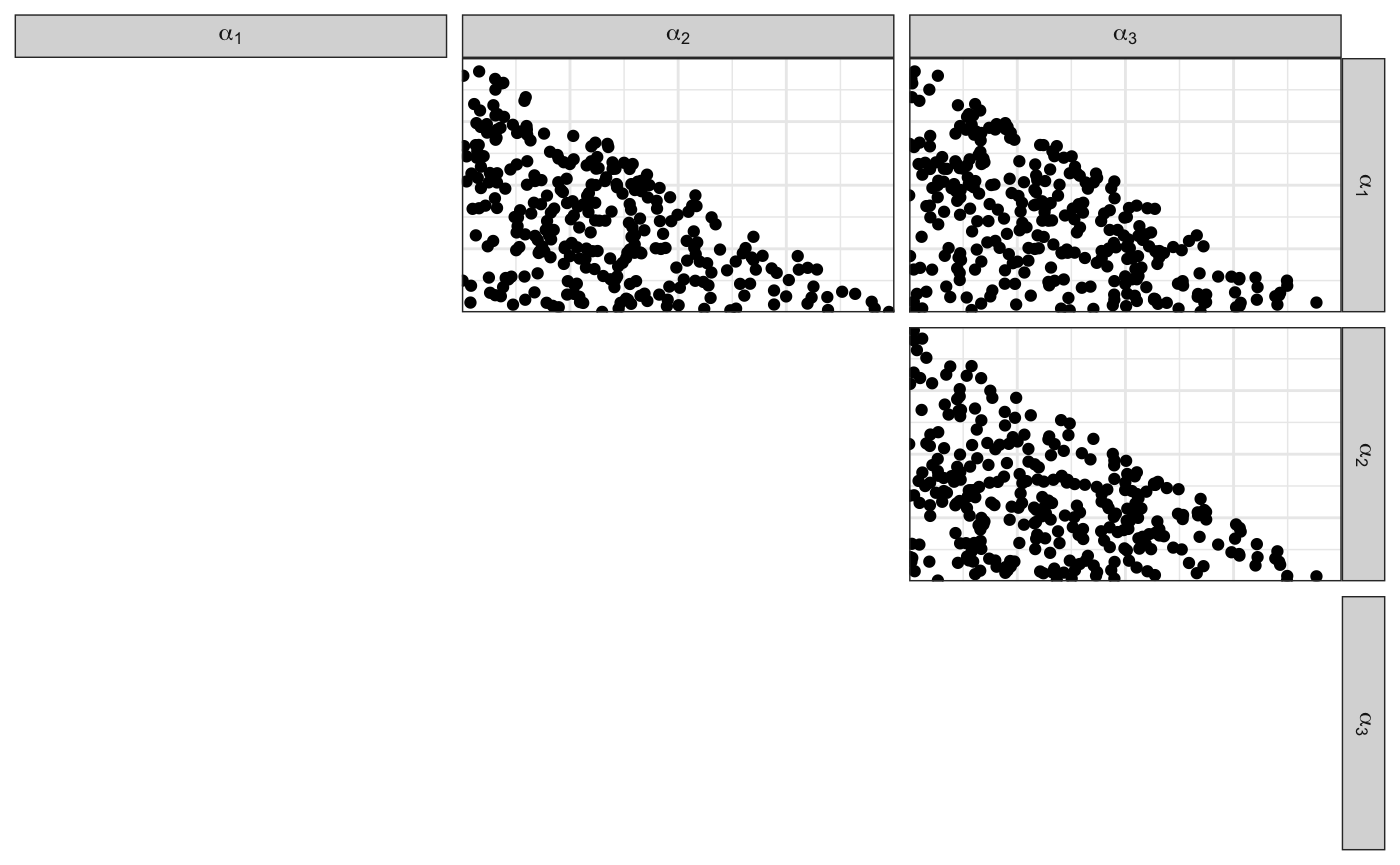
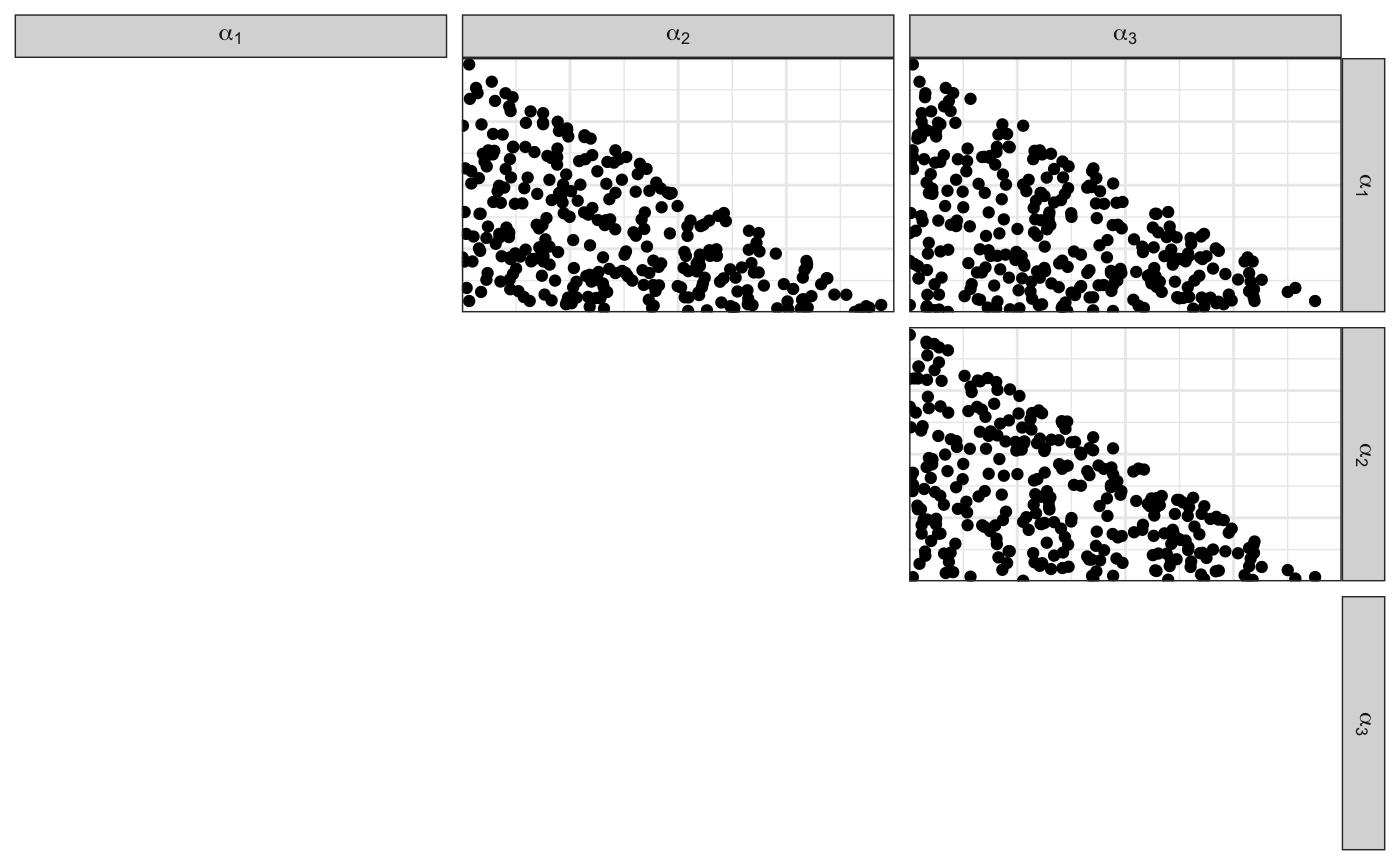
Built site for rsamplestudy: 0.3.2@eef4b8c

Changed region(s): [[0.3071, 0.0624, 0.9521, 0.6867]]

diff --git a/articles/dirichletdirichlet-study.html b/articles/dirichletdirichlet-study.html
@@ -145,24 +145,24 @@ This vignette describes the Dirichlet-Dirichlet model.</p>
 <p>Notice that the hyperparameter is sampled, too (but it can be fixed).</p>
 <div class="sourceCode" id="cb2"><html><body><pre class="r"><span class="fu"><a href="https://rdrr.io/r/utils/head.html">head</a></span>(<span class="no">list_pop</span>$<span class="no">df_pop</span>)
 <span class="co">#&gt; # A tibble: 6 x 5</span>
-<span class="co">#&gt;   source   `x[1]`    `x[2]` `x[3]`   `x[4]`</span>
-<span class="co">#&gt;    &lt;int&gt;    &lt;dbl&gt;     &lt;dbl&gt;  &lt;dbl&gt;    &lt;dbl&gt;</span>
-<span class="co">#&gt; 1      1 2.05e-10 1.03e- 97  1.00  1.60e- 5</span>
-<span class="co">#&gt; 2      1 3.78e- 3 0.         0.996 1.29e-15</span>
-<span class="co">#&gt; 3      1 9.10e- 2 0.         0.904 5.06e- 3</span>
-<span class="co">#&gt; 4      1 4.87e- 1 1.46e-124  0.508 4.09e- 3</span>
-<span class="co">#&gt; 5      1 9.90e- 2 7.83e- 22  0.901 1.39e-13</span>
-<span class="co">#&gt; 6      1 4.51e- 4 8.92e-126  1.00  2.79e-11</span>
+<span class="co">#&gt;   source `x[1]` `x[2]` `x[3]`   `x[4]`</span>
+<span class="co">#&gt;    &lt;int&gt;  &lt;dbl&gt;  &lt;dbl&gt;  &lt;dbl&gt;    &lt;dbl&gt;</span>
+<span class="co">#&gt; 1      1      0      0 0.997  0.00343 </span>
+<span class="co">#&gt; 2      1      0      0 0.999  0.000762</span>
+<span class="co">#&gt; 3      1      0      0 0.648  0.352   </span>
+<span class="co">#&gt; 4      1      0      0 0.0148 0.985   </span>
+<span class="co">#&gt; 5      1      0      0 0.958  0.0418  </span>
+<span class="co">#&gt; 6      1      0      0 0.871  0.129</span>
 <span class="fu"><a href="https://rdrr.io/r/utils/head.html">head</a></span>(<span class="no">list_pop</span>$<span class="no">df_sources</span>)
 <span class="co">#&gt; # A tibble: 6 x 5</span>
-<span class="co">#&gt;   source `theta[1]` `theta[2]` `theta[3]` `theta[4]`</span>
-<span class="co">#&gt;    &lt;int&gt;      &lt;dbl&gt;      &lt;dbl&gt;      &lt;dbl&gt;      &lt;dbl&gt;</span>
-<span class="co">#&gt; 1      1      0.135  0.000272    0.817     0.0484   </span>
-<span class="co">#&gt; 2      2      0.477  0.0000483   0.523     0.0000128</span>
-<span class="co">#&gt; 3      3      0.999  0.000318    0.000878  0.0000128</span>
-<span class="co">#&gt; 4      4      0.866  0.00490     0.122     0.00734  </span>
-<span class="co">#&gt; 5      5      0.172  0.0368      0.775     0.0160   </span>
-<span class="co">#&gt; 6      6      0.835  0.0694      0.0287    0.0669</span></pre></body></html></div>
+<span class="co">#&gt;   source `theta[1]` `theta[2]`   `theta[3]` `theta[4]`</span>
+<span class="co">#&gt;    &lt;int&gt;      &lt;dbl&gt;      &lt;dbl&gt;        &lt;dbl&gt;      &lt;dbl&gt;</span>
+<span class="co">#&gt; 1      1   3.20e-20   5.86e-10 0.801             0.199</span>
+<span class="co">#&gt; 2      2   5.52e- 4   7.58e-38 0.0000000112      0.999</span>
+<span class="co">#&gt; 3      3   6.42e-36   1.61e-19 0.107             0.893</span>
+<span class="co">#&gt; 4      4   4.18e- 1   6.28e-20 0.369             0.213</span>
+<span class="co">#&gt; 5      5   4.48e-48   2.09e-11 0.636             0.364</span>
+<span class="co">#&gt; 6      6   7.36e-32   6.54e- 7 0.789             0.211</span></pre></body></html></div>
 </div>
 <div id="hyperparameters" class="section level2">
 <h2 class="hasAnchor">
@@ -189,33 +189,33 @@ This is generically done using <code>make_dataset_splits</code>:</p>
 <span class="co">#&gt; [5] "df_questioned"  "df_background"</span></pre></body></html></div>
 <div class="sourceCode" id="cb5"><html><body><pre class="r"><span class="fu"><a href="https://rdrr.io/r/utils/head.html">head</a></span>(<span class="no">list_samples</span>$<span class="no">df_reference</span>)
 <span class="co">#&gt; # A tibble: 6 x 5</span>
-<span class="co">#&gt;   source  `x[1]` `x[2]` `x[3]` `x[4]`</span>
-<span class="co">#&gt;    &lt;int&gt;   &lt;dbl&gt;  &lt;dbl&gt;  &lt;dbl&gt;  &lt;dbl&gt;</span>
-<span class="co">#&gt; 1      2 0.278        0 0.722       0</span>
-<span class="co">#&gt; 2      2 0.00330      0 0.997       0</span>
-<span class="co">#&gt; 3      2 0.983        0 0.0170      0</span>
-<span class="co">#&gt; 4      2 0.00378      0 0.996       0</span>
-<span class="co">#&gt; 5      2 0.349        0 0.651       0</span>
-<span class="co">#&gt; 6      2 0.988        0 0.0118      0</span>
+<span class="co">#&gt;   source `x[1]` `x[2]` `x[3]`  `x[4]`</span>
+<span class="co">#&gt;    &lt;int&gt;  &lt;dbl&gt;  &lt;dbl&gt;  &lt;dbl&gt;   &lt;dbl&gt;</span>
+<span class="co">#&gt; 1      6      0      0 0.107  0.893  </span>
+<span class="co">#&gt; 2      6      0      0 0.946  0.0543 </span>
+<span class="co">#&gt; 3      6      0      0 0.462  0.538  </span>
+<span class="co">#&gt; 4      6      0      0 0.0735 0.926  </span>
+<span class="co">#&gt; 5      6      0      0 0.999  0.00119</span>
+<span class="co">#&gt; 6      6      0      0 0.407  0.593</span>
 <span class="fu"><a href="https://rdrr.io/r/utils/head.html">head</a></span>(<span class="no">list_samples</span>$<span class="no">df_questioned</span>)
 <span class="co">#&gt; # A tibble: 5 x 5</span>
-<span class="co">#&gt;   source    `x[1]` `x[2]`    `x[3]`    `x[4]`</span>
-<span class="co">#&gt;    &lt;int&gt;     &lt;dbl&gt;  &lt;dbl&gt;     &lt;dbl&gt;     &lt;dbl&gt;</span>
-<span class="co">#&gt; 1     10 1.00e+  0 0      0         1.54e-132</span>
-<span class="co">#&gt; 2     11 9.59e-  1 0.0408 0         0.       </span>
-<span class="co">#&gt; 3     12 5.09e-123 0.0321 0.968     8.05e- 61</span>
-<span class="co">#&gt; 4     12 8.33e- 56 0.833  0.167     8.34e-220</span>
-<span class="co">#&gt; 5     17 9.89e-  1 0.0111 0.0000646 3.31e-259</span>
+<span class="co">#&gt;   source  `x[1]`    `x[2]`    `x[3]` `x[4]`</span>
+<span class="co">#&gt;    &lt;int&gt;   &lt;dbl&gt;     &lt;dbl&gt;     &lt;dbl&gt;  &lt;dbl&gt;</span>
+<span class="co">#&gt; 1      1 0       0.        9.59e-  1 0.0409</span>
+<span class="co">#&gt; 2      3 0       0.        3.06e-  2 0.969 </span>
+<span class="co">#&gt; 3      4 0.00248 0.        8.29e-  1 0.169 </span>
+<span class="co">#&gt; 4     15 0       0.        1.36e-236 1     </span>
+<span class="co">#&gt; 5     17 0       2.39e-126 9.54e-  1 0.0459</span>
 <span class="fu"><a href="https://rdrr.io/r/utils/head.html">head</a></span>(<span class="no">list_samples</span>$<span class="no">df_background</span>)
 <span class="co">#&gt; # A tibble: 6 x 5</span>
-<span class="co">#&gt;   source   `x[1]`    `x[2]` `x[3]`   `x[4]`</span>
-<span class="co">#&gt;    &lt;int&gt;    &lt;dbl&gt;     &lt;dbl&gt;  &lt;dbl&gt;    &lt;dbl&gt;</span>
-<span class="co">#&gt; 1      1 2.05e-10 1.03e- 97  1.00  1.60e- 5</span>
-<span class="co">#&gt; 2      1 3.78e- 3 0.         0.996 1.29e-15</span>
-<span class="co">#&gt; 3      1 9.10e- 2 0.         0.904 5.06e- 3</span>
-<span class="co">#&gt; 4      1 4.87e- 1 1.46e-124  0.508 4.09e- 3</span>
-<span class="co">#&gt; 5      1 9.90e- 2 7.83e- 22  0.901 1.39e-13</span>
-<span class="co">#&gt; 6      1 4.51e- 4 8.92e-126  1.00  2.79e-11</span></pre></body></html></div>
+<span class="co">#&gt;   source `x[1]` `x[2]` `x[3]`   `x[4]`</span>
+<span class="co">#&gt;    &lt;int&gt;  &lt;dbl&gt;  &lt;dbl&gt;  &lt;dbl&gt;    &lt;dbl&gt;</span>
+<span class="co">#&gt; 1      1      0      0 0.997  0.00343 </span>
+<span class="co">#&gt; 2      1      0      0 0.999  0.000762</span>
+<span class="co">#&gt; 3      1      0      0 0.648  0.352   </span>
+<span class="co">#&gt; 4      1      0      0 0.0148 0.985   </span>
+<span class="co">#&gt; 5      1      0      0 0.958  0.0418  </span>
+<span class="co">#&gt; 6      1      0      0 0.871  0.129</span></pre></body></html></div>
 <div id="source-parameters" class="section level3">
 <h3 class="hasAnchor">
 <a href="#source-parameters" class="anchor"></a>Source parameters</h3>

diff --git a/articles/dirichlet-distribution.html b/articles/dirichlet-distribution.html
@@ -153,14 +153,14 @@ In other words, <span class="math inline">\(\boldsymbol{X} \in \text{Simplex}{(p
 <div class="sourceCode" id="cb2"><html><body><pre class="r"><span class="no">df_diri</span> <span class="kw">&lt;-</span> <span class="fu"><a href="../reference/fun_rdirichlet.html">fun_rdirichlet</a></span>(<span class="no">n</span>, <span class="no">alpha</span>)
 <span class="fu"><a href="https://rdrr.io/r/utils/head.html">head</a></span>(<span class="no">df_diri</span>)
 <span class="co">#&gt; # A tibble: 6 x 4</span>
-<span class="co">#&gt;   `x[1]`      `x[2]` `x[3]`   `x[4]`</span>
-<span class="co">#&gt;    &lt;dbl&gt;       &lt;dbl&gt;  &lt;dbl&gt;    &lt;dbl&gt;</span>
-<span class="co">#&gt; 1 0.0727 0.00456      0.923 2.61e- 7</span>
-<span class="co">#&gt; 2 0.0155 0.0547       0.930 1.57e-15</span>
-<span class="co">#&gt; 3 0.0191 0.000159     0.975 5.88e- 3</span>
-<span class="co">#&gt; 4 0.0642 0.0120       0.908 1.55e- 2</span>
-<span class="co">#&gt; 5 0.0630 0.000000188  0.937 5.29e- 8</span>
-<span class="co">#&gt; 6 0.0118 0.00680      0.981 2.96e-11</span></pre></body></html></div>
+<span class="co">#&gt;    `x[1]`   `x[2]` `x[3]`   `x[4]`</span>
+<span class="co">#&gt;     &lt;dbl&gt;    &lt;dbl&gt;  &lt;dbl&gt;    &lt;dbl&gt;</span>
+<span class="co">#&gt; 1 0.00347 8.72e-15  0.997 1.76e-11</span>
+<span class="co">#&gt; 2 0.104   2.83e- 5  0.896 7.12e- 7</span>
+<span class="co">#&gt; 3 0.272   7.46e- 7  0.728 3.20e- 5</span>
+<span class="co">#&gt; 4 0.0220  3.87e- 6  0.978 2.47e- 5</span>
+<span class="co">#&gt; 5 0.185   1.51e- 5  0.815 3.45e- 6</span>
+<span class="co">#&gt; 6 0.0113  3.85e- 3  0.985 4.86e- 5</span></pre></body></html></div>
 <pre><code>#&gt; Loading required namespace: ggplot2
 #&gt; Loading required namespace: GGally
 #&gt; Registered S3 method overwritten by 'GGally':
@@ -178,14 +178,14 @@ In other words, <span class="math inline">\(\boldsymbol{X} \in \text{Simplex}{(p
 <div class="sourceCode" id="cb5"><html><body><pre class="r"><span class="no">df_diri</span> <span class="kw">&lt;-</span> <span class="fu"><a href="../reference/fun_rdirichlet.html">fun_rdirichlet</a></span>(<span class="no">n</span>, <span class="no">alpha</span>)
 <span class="fu"><a href="https://rdrr.io/r/utils/head.html">head</a></span>(<span class="no">df_diri</span>)
 <span class="co">#&gt; # A tibble: 6 x 4</span>
-<span class="co">#&gt;   `x[1]` `x[2]` `x[3]` `x[4]`</span>
-<span class="co">#&gt;    &lt;dbl&gt;  &lt;dbl&gt;  &lt;dbl&gt;  &lt;dbl&gt;</span>
-<span class="co">#&gt; 1 0.396   0.143 0.272  0.189 </span>
-<span class="co">#&gt; 2 0.170   0.445 0.297  0.0872</span>
-<span class="co">#&gt; 3 0.130   0.301 0.251  0.318 </span>
-<span class="co">#&gt; 4 0.0966  0.239 0.0122 0.652 </span>
-<span class="co">#&gt; 5 0.237   0.406 0.317  0.0397</span>
-<span class="co">#&gt; 6 0.141   0.119 0.422  0.317</span></pre></body></html></div>
+<span class="co">#&gt;   `x[1]` `x[2]`  `x[3]` `x[4]`</span>
+<span class="co">#&gt;    &lt;dbl&gt;  &lt;dbl&gt;   &lt;dbl&gt;  &lt;dbl&gt;</span>
+<span class="co">#&gt; 1 0.172  0.0447 0.723   0.0604</span>
+<span class="co">#&gt; 2 0.327  0.304  0.0588  0.310 </span>
+<span class="co">#&gt; 3 0.329  0.147  0.506   0.0170</span>
+<span class="co">#&gt; 4 0.0690 0.674  0.00810 0.249 </span>
+<span class="co">#&gt; 5 0.0565 0.479  0.345   0.119 </span>
+<span class="co">#&gt; 6 0.297  0.439  0.124   0.141</span></pre></body></html></div>
 <div class="sourceCode" id="cb6"><html><body><pre class="r"><span class="fu">scatter_matrix_simplex</span>(<span class="no">df_diri</span>)</pre></body></html></div>
 <p><img src="dirichlet-distribution_files/figure-html/unnamed-chunk-5-1.png" width="700"></p>
 </div>
@@ -202,12 +202,12 @@ In other words, <span class="math inline">\(\boldsymbol{X} \in \text{Simplex}{(p
 <span class="co">#&gt; # A tibble: 6 x 4</span>
 <span class="co">#&gt;   `x[1]` `x[2]` `x[3]` `x[4]`</span>
 <span class="co">#&gt;    &lt;dbl&gt;  &lt;dbl&gt;  &lt;dbl&gt;  &lt;dbl&gt;</span>
-<span class="co">#&gt; 1  0.280  0.214  0.253  0.252</span>
-<span class="co">#&gt; 2  0.210  0.268  0.277  0.244</span>
-<span class="co">#&gt; 3  0.218  0.160  0.318  0.305</span>
-<span class="co">#&gt; 4  0.231  0.235  0.236  0.299</span>
-<span class="co">#&gt; 5  0.216  0.351  0.208  0.225</span>
-<span class="co">#&gt; 6  0.228  0.207  0.278  0.288</span></pre></body></html></div>
+<span class="co">#&gt; 1  0.290  0.176  0.284  0.250</span>
+<span class="co">#&gt; 2  0.280  0.194  0.246  0.280</span>
+<span class="co">#&gt; 3  0.230  0.287  0.288  0.195</span>
+<span class="co">#&gt; 4  0.267  0.187  0.252  0.294</span>
+<span class="co">#&gt; 5  0.245  0.238  0.260  0.257</span>
+<span class="co">#&gt; 6  0.266  0.278  0.219  0.237</span></pre></body></html></div>
 <div class="sourceCode" id="cb9"><html><body><pre class="r"><span class="fu">scatter_matrix_simplex</span>(<span class="no">df_diri</span>)</pre></body></html></div>
 <p><img src="dirichlet-distribution_files/figure-html/unnamed-chunk-8-1.png" width="700"></p>
 </div>
@@ -224,12 +224,12 @@ In other words, <span class="math inline">\(\boldsymbol{X} \in \text{Simplex}{(p
 <span class="co">#&gt; # A tibble: 6 x 4</span>
 <span class="co">#&gt;      `x[1]`    `x[2]`    `x[3]`    `x[4]`</span>
 <span class="co">#&gt;       &lt;dbl&gt;     &lt;dbl&gt;     &lt;dbl&gt;     &lt;dbl&gt;</span>
-<span class="co">#&gt; 1 2.58e- 18 1.01e- 17 1.00e+  0 1.82e-116</span>
-<span class="co">#&gt; 2 1.00e+  0 1.62e- 48 0.        5.18e- 21</span>
-<span class="co">#&gt; 3 3.61e- 32 5.71e-260 1.00e+  0 7.56e- 52</span>
-<span class="co">#&gt; 4 1.41e- 68 1.00e+  0 1.64e-138 4.12e-216</span>
-<span class="co">#&gt; 5 1.04e- 97 2.72e- 60 5.03e-169 1.00e+  0</span>
-<span class="co">#&gt; 6 2.24e-241 1.00e+  0 5.48e-200 5.19e- 97</span></pre></body></html></div>
+<span class="co">#&gt; 1 6.01e-269 0.        1.00e+  0 1.32e- 83</span>
+<span class="co">#&gt; 2 1.11e- 93 3.74e-162 3.94e- 69 1.00e+  0</span>
+<span class="co">#&gt; 3 8.70e- 26 1.09e-177 1.00e+  0 1.06e- 21</span>
+<span class="co">#&gt; 4 2.00e- 11 1.96e-268 2.47e-229 1.00e+  0</span>
+<span class="co">#&gt; 5 0.        5.29e-142 1.00e+  0 4.98e-116</span>
+<span class="co">#&gt; 6 1.00e+  0 1.34e- 91 3.07e- 91 1.37e- 63</span></pre></body></html></div>
 <div class="sourceCode" id="cb12"><html><body><pre class="r"><span class="fu">scatter_matrix_simplex</span>(<span class="no">df_diri</span>)</pre></body></html></div>
 <p><img src="dirichlet-distribution_files/figure-html/unnamed-chunk-11-1.png" width="700"></p>
 </div>

diff --git a/reference/fun_rdirichlet_population.html b/reference/fun_rdirichlet_population.html
@@ -166,8 +166,8 @@ Optionally pass the between-source alpha hyperparameter used to generate the sou
     </tr>
     <tr>
       <th>alpha</th>
-      <td><p>between-source alpha hyperparameter, a numeric vector or 1-row data.frame.
-If <code>NULL</code> (default), it is generated from the Uniform distribution on the (p-1)-simplex (see <code><a href='fun_rdirichlet_hyperparameter.html'>fun_rdirichlet_hyperparameter()</a></code>).</p></td>
+      <td><p>between-source alpha hyperparameter.
+If <code>NULL</code>, it is generated from the Uniform distribution on the (p-1)-simplex (see <code><a href='fun_rdirichlet_hyperparameter.html'>fun_rdirichlet_hyperparameter()</a></code>).</p></td>
     </tr>
     <tr>
       <th>name_var</th>

diff --git a/reference/fun_rdirichlet.html b/reference/fun_rdirichlet.html
@@ -149,7 +149,7 @@
     </tr>
     <tr>
       <th>a</th>
-      <td><p>Dirichlet parameter (a vector that will be coerced to numeric)</p></td>
+      <td><p>Dirichlet parameter (a vector)</p></td>
     </tr>
     <tr>
       <th>text</th>
@@ -159,7 +159,7 @@
 
     <h2 class="hasAnchor" id="value"><a class="anchor" href="#value"></a>Value</h2>
 
-    <p>a tibble with named columns, where each row is a Dirichlet sample</p>
+    <p>a tibble with named colums, where each row is a Dirichlet sample</p>
     <h2 class="hasAnchor" id="see-also"><a class="anchor" href="#see-also"></a>See also</h2>
 
     <div class='dont-index'><p><code><a href='https://rdrr.io/pkg/Compositional/man/rdiri.html'>Compositional::rdiri()</a></code></p>
